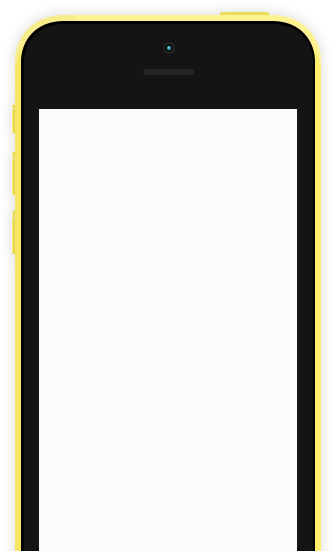
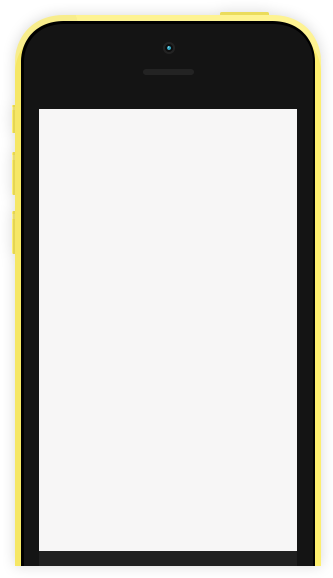
first commit

diff --git a/css/style.css b/css/style.css
@@ -58,7 +58,7 @@ section.section-big {
 }
 .big-phone {
     position: absolute;
-    bottom: 0;
+    bottom: -40px;
     right: 0;
 }
 .button{
@@ -330,6 +330,9 @@ footer img, footer p,.logo-footer,.apple-store{
     }
     .slides img {
         height: 300px;
+    }
+    .big-phone{
+        bottom: -40px;
     }
 }
 @media(max-width: 428px){
